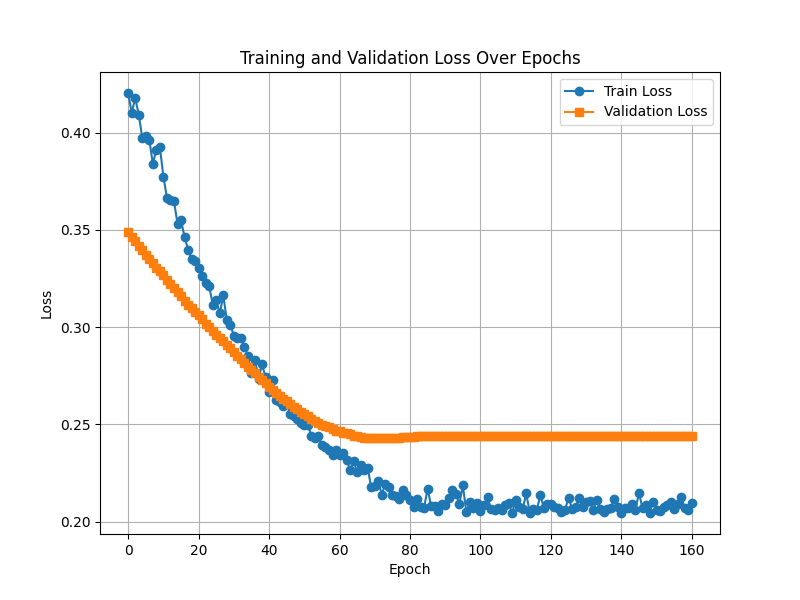
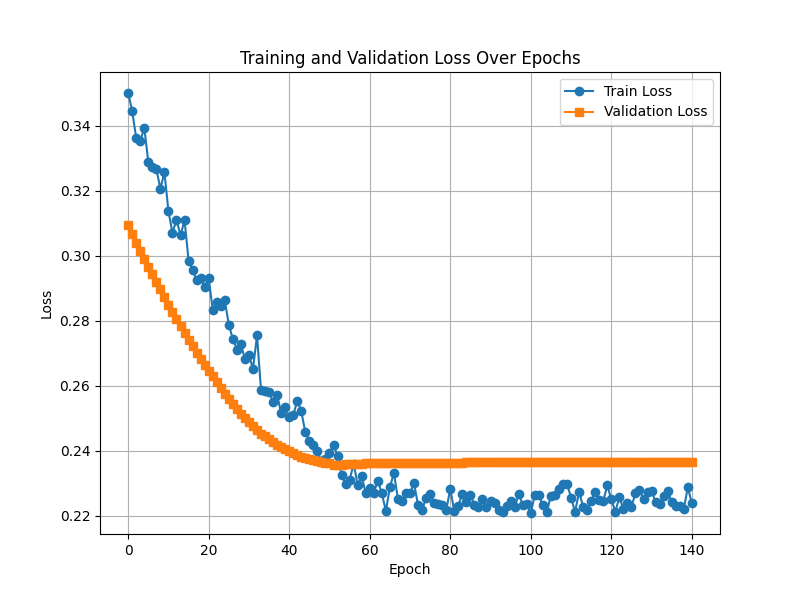
update web

diff --git a/web/static/style.css b/web/static/style.css
@@ -1,58 +1,121 @@
-body {
-  font-family: Arial, sans-serif;
-  background: linear-gradient(270deg, #ff9a9e, #fad0c4, #fad0c4, #fbc2eb, #a18cd1, #fbc2eb, #fad0c4, #ff9a9e);
-  background-size: 1600% 1600%;
-  animation: rainbow 30s ease infinite;
-  margin: 0;
-  padding: 0;
+*{
+  /*margin: 10px;*/
+  padding: 10px;
+  font-family: Quicksand, Helvetica, sans-serif;
+  /*text-align: center;*/
 }
 
-@keyframes rainbow {
-  0%, 100% {
-    background-position: 0% 50%;
-  }
-  50% {
-    background-position: 100% 50%;
-  }
+h3{
+  font-family: Quicksand, Helvetica, sans-serif;
+  /*background-color: #c8dff3;*/
+  margin-left: 50px;
+  margin-right: 50px;
+  margin-top: 5px;
+  margin-bottom: 5px;
+  /*border-radius: 15px;*/
 }
 
-#drop_zone {
-  width: 320px;
-  height: 160px;
-  border: 2px dashed #aaa;
-  border-radius: 10px;
+h1{
+  font-family: Quicksand, Helvetica, sans-serif;
+  font-size: 60px;
+  /*margin: 50px;*/
+  margin: 0px;
+  padding-left: 100px;
+  padding-right: 100px;
   text-align: center;
-  line-height: 160px;
-  font-size: 16px;
-  color: #555;
-  margin: 30px auto;
-  background: linear-gradient(135deg, #e0e0e0, #f9f9f9);
-  transition: transform 0.2s ease;
+  padding-top: 150px;
+  padding-bottom: 150px;
+  text-decoration: underline;
+  text-underline-offset: 15px;
+  text-decoration-color: #FADC46;
+  text-decoration-thickness: 7px;
+  text-decoration-style: solid;
+
+  /*Adapted from https://stackoverflow.com/questions/12605908/change-background-image-opacity*/
+  background-color: rgba(255,255,255,0.3);
+  background-blend-mode: lighten;
+  background-image: url('SolarPanels.jpg');
 }
 
-#drop_zone:hover {
-  transform: scale(1.05);
+.instructions h3{
+  text-align: left;
+  background-color: #FFFFFF; 
 }
 
-#status {
+h4{
+  margin: 10px;
+  text-align: left;
+}
+
+/*Navigation Bar*/
+.topnav {
+  background-color: #092843;
+  /*overflow: hidden;*/
+  margin: 0px;
+  padding: 10px;
+  position: fixed;
+  top: 0;
+  left: 0;
+  width: 100%;
+}
+
+.topnav img{
+  padding: 10px;
+  float: left;
+  height: 40px;
+  width: auto;
+}
+
+/* Style the links inside the navigation bar */
+.topnav a {
+  float: left;
+  color: #FFFFFF;
   text-align: center;
-  margin-top: 10px;
+  padding: 14px 16px;
+  text-decoration: none;
+  font-size: 17px;
 }
 
-button {
+.topnav a:hover {
+  background-color: #0f3658;
+  color: #FFFFFF;
+  border-radius: 15px;
+}
+
+.topnav a.active {
+  color: #FFFFFF;
+  background-color: #0f3658;
+}
+
+
+.form-step {
+  display: none;
+}
+
+.form-step.active {
   display: block;
-  margin: 20px auto;
-  padding: 10px 20px;
-  font-size: 14px;
-  border: none;
-  border-radius: 5px;
-  background-color: #007bff;
-  color: white;
-  cursor: pointer;
-  transition: background-color 0.3s ease, transform 0.2s ease;
 }
 
-button:hover {
-  background-color: #0056b3;
-  transform: scale(1.05);
+form{
+  margin: 10px;
+  background-color: #AACFF0;
+}
+
+label{
+  margin: 8px;
+}
+
+input{
+  margin: 8px;
+}
+
+.scheduleForm{
+  margin: 20px;
+  padding: 20px;
+  padding-left: 30%;
+  padding-right: 30%;
+  justify-content: center;
+  align-items: center;
+  border-radius: 15px;
+  width: 400px;
 }

diff --git a/web/index.html b/web/index.html
@@ -1,15 +1,36 @@
 <!DOCTYPE html>
 <html lang="en">
-<head>
-  <meta charset="UTF-8" />
-  <title>Model Training Interface</title>
-  <link rel="stylesheet" href="/static/style.css" />
-</head>
-<body>
-  <div id="drop_zone">Drop Excel file here</div>
-  <div id="status"></div>
-  <button id="train_btn" disabled>Train</button>
-  <button id="result_btn" disabled onclick="window.location='/train_result_page'">View Results</button>
-  <script src="/static/script.js"></script>
-</body>
+  <head>
+    <meta charset="UTF-8">
+    <meta name="viewport" content="width=device-width, initial-scale=1.0">
+    <meta http-equiv="X-UA-Compatible" content="ie=edge">
+    <title>My Website</title>
+    <link rel="stylesheet" href="{{ url_for('static', filename='style.css') }}">
+    <link rel="icon" href="{{ url_for('static', filename='favicon.ico') }}" type="image/x-icon">
+
+    <link rel="preconnect" href="https://fonts.googleapis.com">
+    <link rel="preconnect" href="https://fonts.gstatic.com" crossorigin>
+    <link href="https://fonts.googleapis.com/css2?family=Quicksand&display=swap" rel="stylesheet">
+    <link rel="icon" type="MSPLogo" href="MSPLogo.avif">
+  </head>
+  <body>
+    <!-- Navigation Bar -->
+    <div class="topnav">
+      <img src="{{ url_for('static', filename='MSPLogo.avif') }}" height="15px" width="auto">
+      <a href="index.html">Home</a>
+      <a href="train.html">Train Models</a>
+      <a href="form.html">Predict Installation Duration</a>
+      <a href="instructions.html">Instructions</a>
+    </div>
+
+    <main>
+      <br>
+      <h1> Scheduling Solar</h1>  
+
+      <h3>Welcome to Scheduling Solar, a product designed to predict how long solar panel installations will take.</h3>
+      <h3>This product was created for Midwest Solar Power, a company specializing in solar panel installations. Scheduling Solar works by leveraging the power of Genetic Algorithms, a type of machine learning model that learns from historical data to predict how long future installations will take based on a variety of factors.</h3>
+    </main>
+    
+    <script src="{{ url_for('static', filename='script.js') }}"></script>
+  </body>
 </html>

diff --git a/web/static/script.js b/web/static/script.js
@@ -1,57 +1,16 @@
-const dropZone = document.getElementById("drop_zone");
-const trainBtn = document.getElementById("train_btn");
-const resultBtn = document.getElementById("result_btn");
-const statusDiv = document.getElementById("status");
+// Handle form submission and display predicted installation time
+document.addEventListener("DOMContentLoaded", function () {
+  const form = document.getElementById("multiStepForm");
+  if (!form) return;
 
-dropZone.addEventListener("dragover", (e) => {
-  e.preventDefault();
-  dropZone.style.borderColor = "#3b82f6";
-});
+  form.addEventListener("submit", function (e) {
+    e.preventDefault();
 
-dropZone.addEventListener("dragleave", () => {
-  dropZone.style.borderColor = "#aaa";
-});
+    // Example prediction: you can replace this with real model inference result
+    const predicted = 10;
 
-dropZone.addEventListener("drop", (e) => {
-  e.preventDefault();
-  dropZone.style.borderColor = "#aaa";
-
-  const file = e.dataTransfer.files[0];
-  if (!file.name.endsWith(".xlsx")) {
-    alert("Please upload an Excel (.xlsx) file.");
-    return;
-  }
-
-  const formData = new FormData();
-  formData.append("file", file);
-  statusDiv.innerText = "Uploading file...";
-
-  fetch("/upload", {
-    method: "POST",
-    body: formData,
-  })
-    .then((res) => res.text())
-    .then((msg) => {
-      statusDiv.innerText = msg;
-      trainBtn.disabled = false;
-    })
-    .catch((err) => {
-      statusDiv.innerText = "Upload failed: " + err;
-    });
-});
-
-trainBtn.addEventListener("click", () => {
-  statusDiv.innerText = "Training in progress...";
-  fetch("/train")
-    .then((res) => {
-    if (!res.ok) throw new Error("HTTP " + res.status);
-    return res.text();
-  })
-    .then((msg) => {
-    statusDiv.innerText = msg;
-    resultBtn.disabled = false;
-  })
-    .catch((err) => {
-    statusDiv.innerText = "Training failed: " + err;
+    const result = document.getElementById("predictionResult");
+    result.innerText = `This Solar Panel Installation will take ${predicted} to ${predicted + 10} Hours to Complete`;
+    result.style.display = "block";
   });
 });

diff --git a/main.py b/main.py
@@ -1,7 +1,6 @@
 from flask import Flask, request, send_file, render_template, send_from_directory, render_template_string
 import os
 import subprocess
-from flask import request
 from werkzeug.utils import secure_filename
 
 app = Flask(__name__, static_folder="web/static", template_folder="web")
@@ -10,14 +9,39 @@ app = Flask(__name__, static_folder="web/static", template_folder="web")
 def index():
     return render_template("index.html")
 
+@app.route("/form.html")
+def form_page():
+    # Reserved for future form-based prediction UI
+    return render_template("form.html")
+
+
+@app.route("/train.html")
+def train_page():
+    # New page to upload Excel, trigger training, and view results
+    return render_template("train.html")
+
+
+@app.route("/instructions.html")
+def instructions_page():
+    # Static instructions page
+    return render_template("instructions.html")
+
+@app.route("/index.html") 
+def index_page():
+    return render_template("index.html")
+
 @app.route("/upload", methods=["POST"])
 def upload_file():
     if "file" not in request.files:
         return "No file part", 400
-
+    
     file = request.files["file"]
+    
     if file.filename == "":
         return "No selected file", 400
+    
+    if not file.filename.endswith(".xlsx"):
+        return "Invalid file type. Please upload an Excel (.xlsx) file.", 400
 
     # Ensure target directory exists
     save_dir = os.path.join("data", "raw_data")
